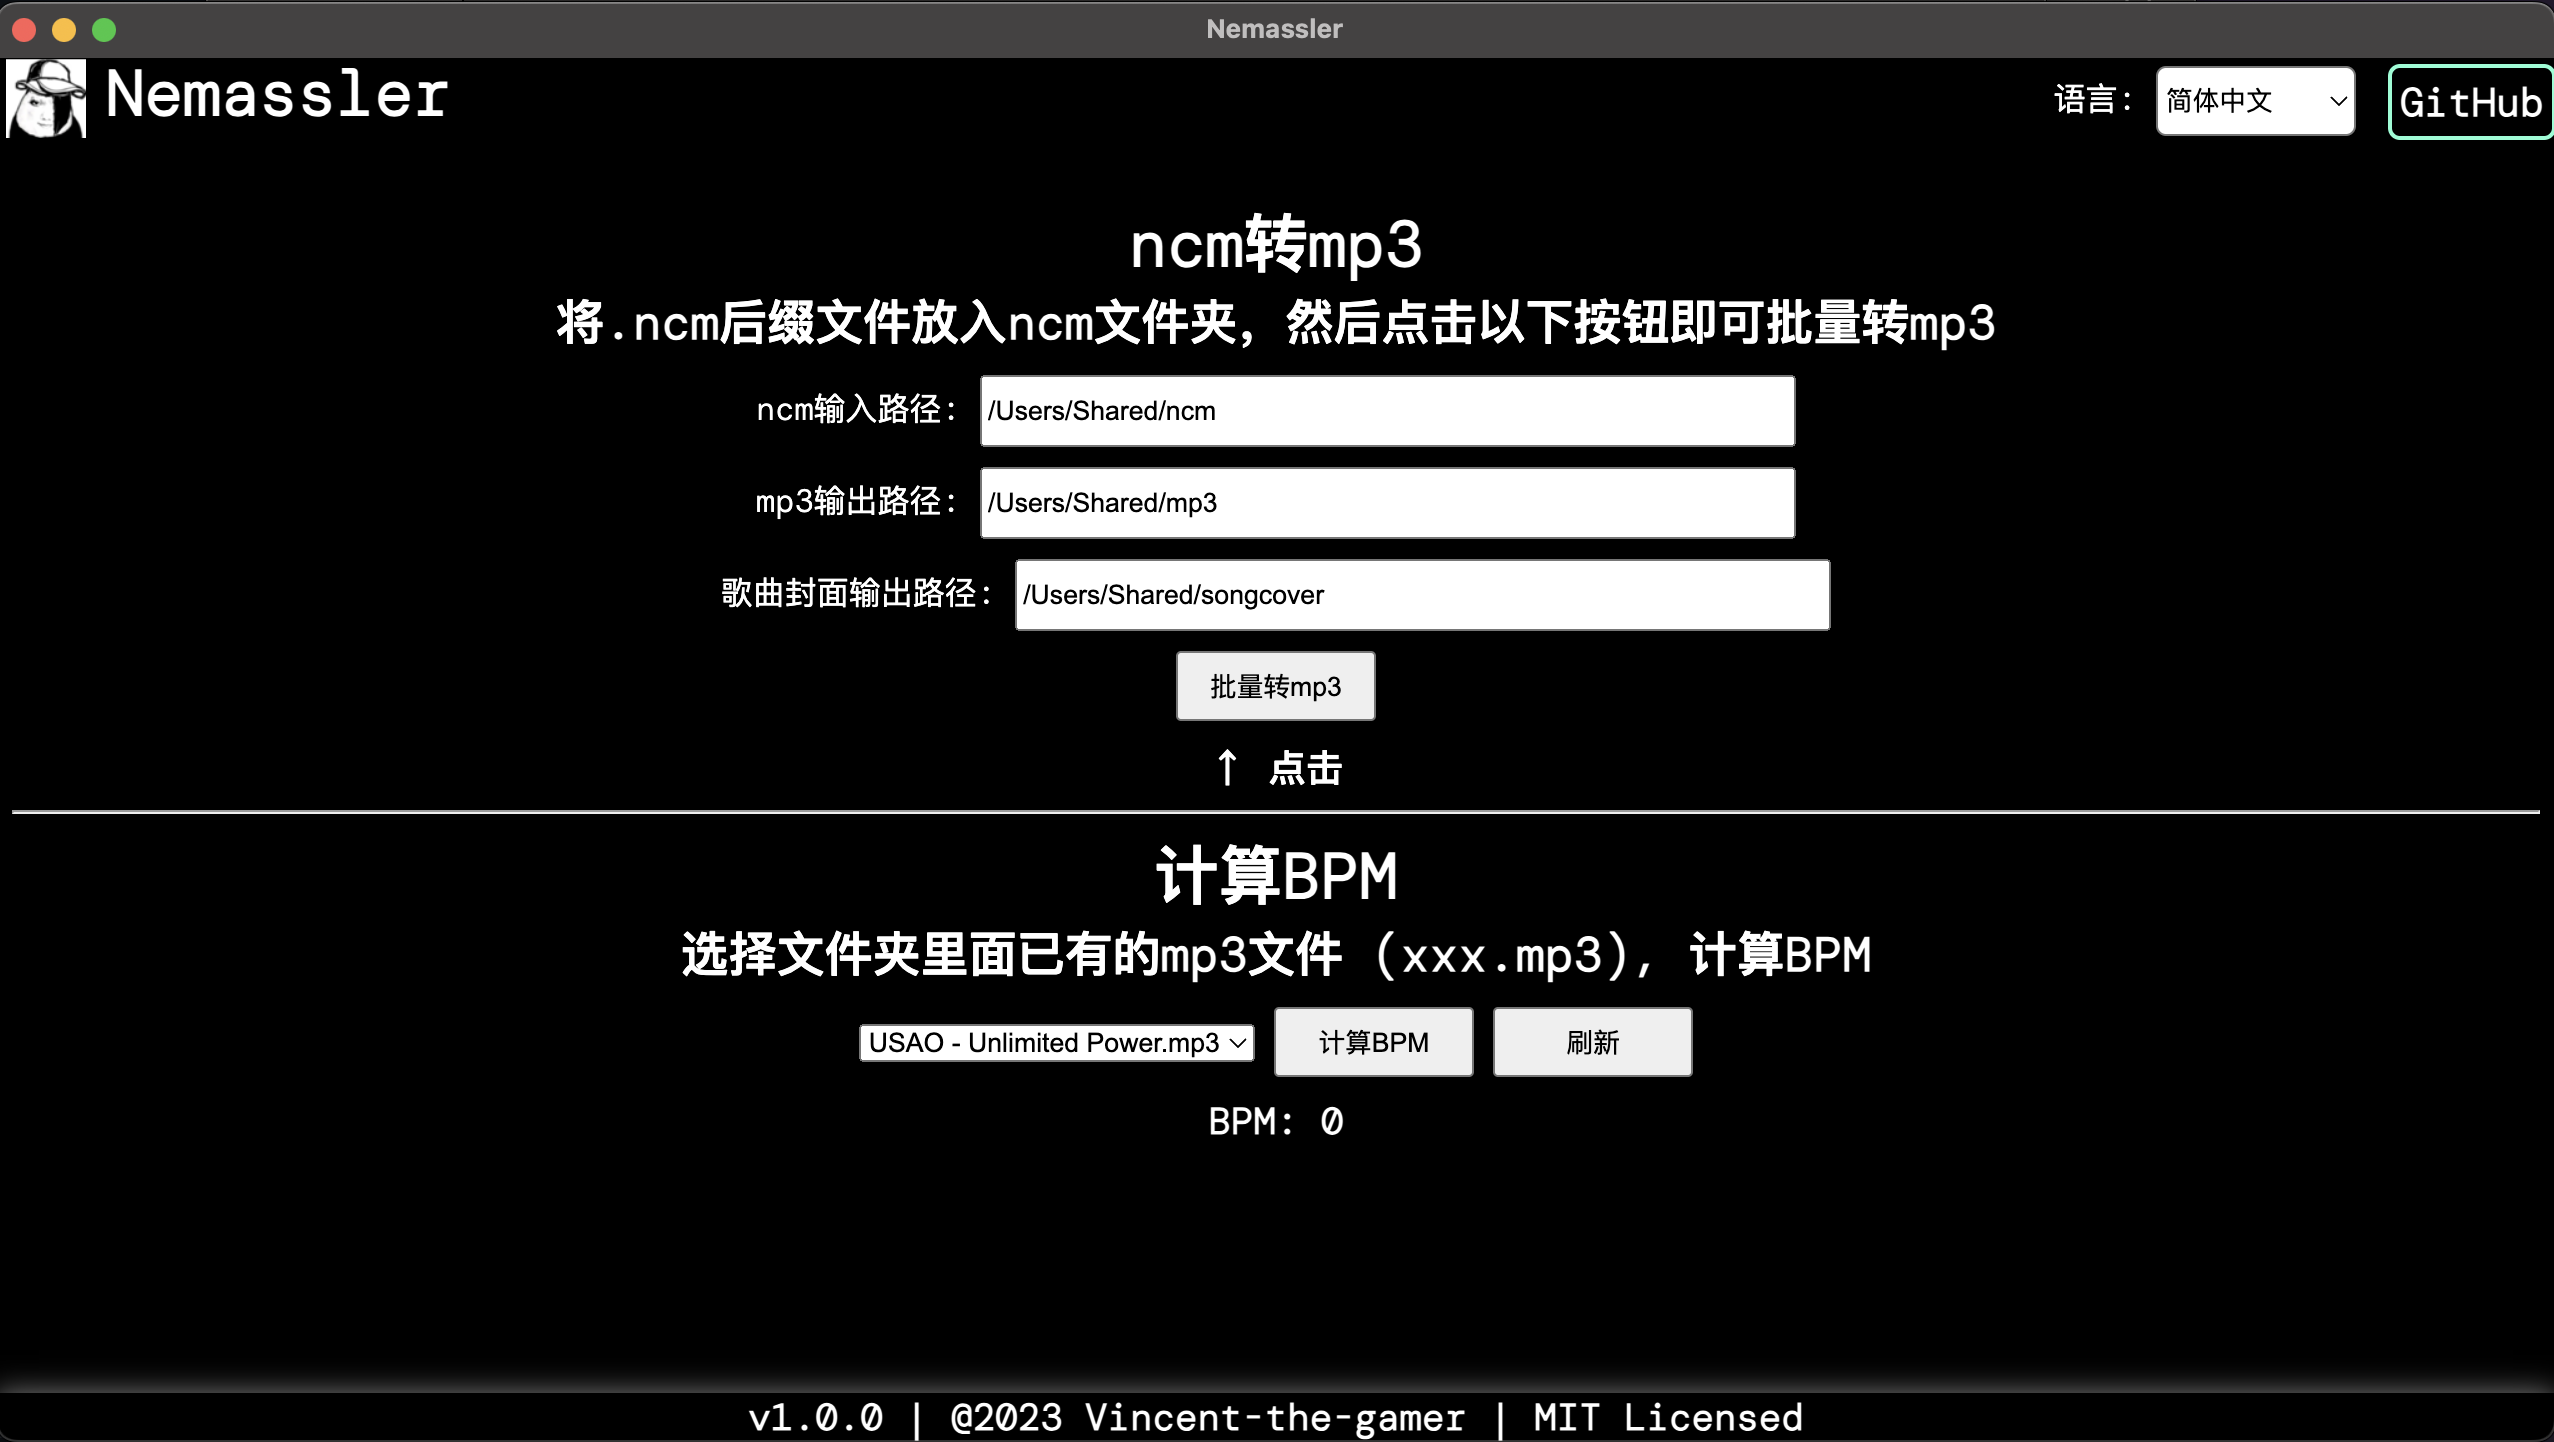
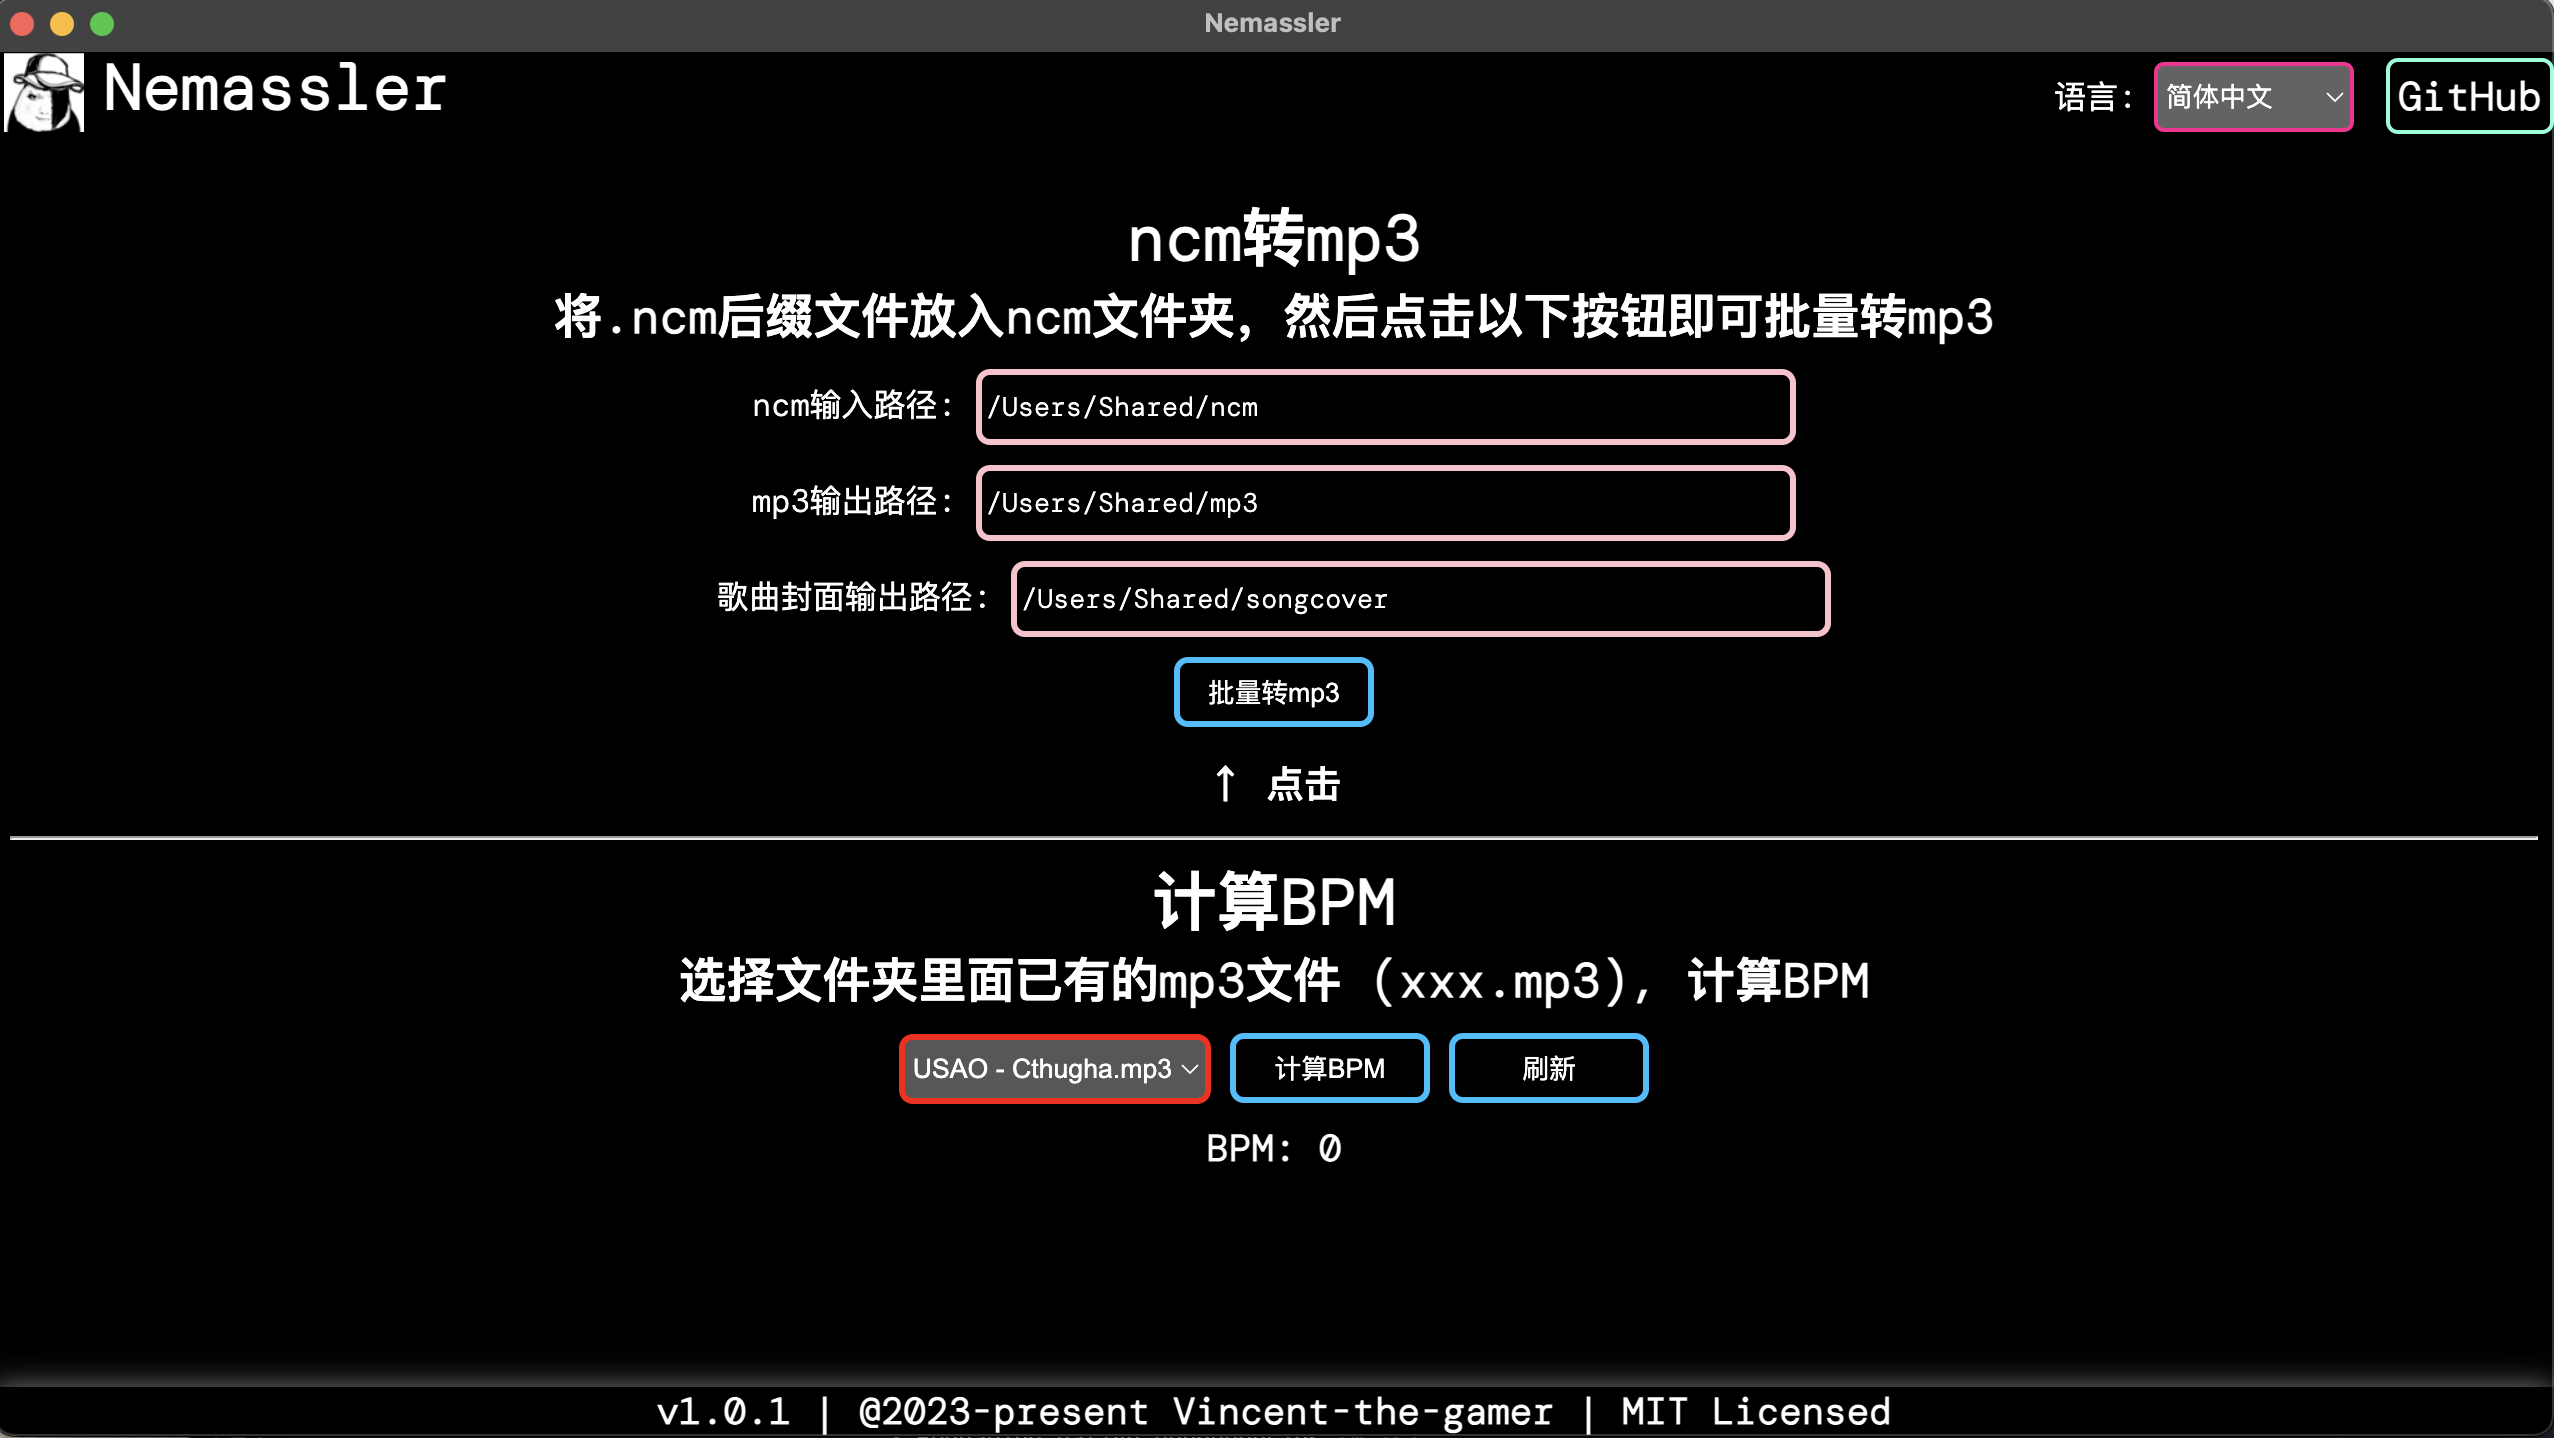
Release v1.0.1

Changed region(s): [[0.0309, 0.153, 1.0, 0.8261], [0.0, 0.0, 1.0, 0.1224], [0.0, 0.9485, 1.0, 1.0]]

diff --git a/forge.config.js b/forge.config.js
@@ -3,7 +3,8 @@ module.exports = {
         name: 'Nemassler',
         executableName: 'Nemassler',
         icon: "./buildIcon",
-        extraResource: ["./public"]
+        extraResource: ["./frontend/dist"]
+        
     },
     makers: [
         {
@@ -16,7 +17,7 @@ module.exports = {
             name: "@electron-forge/maker-zip",
             platforms: [
                 "darwin"
-            ]
+            ],
         },
         {
             name: "@electron-forge/maker-deb",

diff --git a/frontend/src/lib/Main.svelte b/frontend/src/lib/Main.svelte
@@ -64,7 +64,7 @@
         <h3>{ msgEn }</h3>
         <hr>
         <h1>Calculate BPM</h1>
-        <h2>Choose existing mp3 file (xxx.mp3) in public/mp3 folder to calculate BPM</h2>
+        <h2>Choose existing mp3 file (xxx.mp3) in your custom mp3 folder to calculate BPM</h2>
         <div class="center">
         {#if files.length > 0}
             <select class="select-bpm" bind:value={ mp3FileName }>

diff --git a/README.md b/README.md
@@ -3,7 +3,12 @@
 </p>
 <h1 align="center">Nemassler</h1>
 
-Powered By [Alpine.js](https://alpinejs.dev/)
+<p align="center">
+  <span style="font-size: 20px;">Powered By</span>
+  <a href="https://www.svelte.cn/" target="_blank">
+    <img src="./.github/svelte.png"/>
+  </a>
+</p>
 
 中文文档: [README_ZH.md](./README_ZH.md)
 
@@ -17,6 +22,13 @@ This tool pack has 2 modules now:
 Download application from Release: 
 
 [https://github.com/Vincent-the-gamer/Nemassler/releases](https://github.com/Vincent-the-gamer/Nemassler/releases)
+
+Can't open in macOS?
+* Open Terminal
+* Input `xattr -d com.apple.quarantine `
+* Drag the application and drop in Terminal, the directory will be automatically written.
+* Press enter(aka return) button!!!
+* Re-open the application.
 
 ### Get Started
 
@@ -33,8 +45,8 @@ mp3 files and song cover will be generated in `your mp3 output folder`.
 
 #### Default Folders
 * Windows: 
-    * ncm: C:\\Users\\public\\ncm
-    * mp3: C:\\Users\\public\\mp3
+    * ncm: C:\\Users\\Public\\ncm
+    * mp3: C:\\Users\\Public\\mp3
     * songcover: C:\\Users\\public\\songcover
 * macOS
     * ncm: /Users/Shared/ncm
@@ -48,7 +60,13 @@ choose your generated `.mp3` audios, or import your own `.mp3` audios into `your
 ~~~shell
 git clone https://github.com/Vincent-the-gamer/Nemassler.git
 
+# first: build frontend
+cd frontend
 npm install
+npm run build
 
+# then: package backend
+cd ../
+npm install
 npm run package
 ~~~

diff --git a/README_ZH.md b/README_ZH.md
@@ -3,9 +3,12 @@
 </p>
 <h1 align="center">Nemassler</h1>
 
-Node.js版本：18.16.0
-
-本项目前端使用[Alpine.js](https://alpinejs.dev/)开发
+<p align="center">
+  <span style="font-size: 20px;">抛瓦来自</span>
+  <a href="https://www.svelte.cn/" target="_blank">
+    <img src="./.github/svelte.png"/>
+  </a>
+</p>
 
 English Version: [README.md](./README.md)
 
@@ -19,6 +22,13 @@ English Version: [README.md](./README.md)
 下载构建好的程序: 
 
 [https://github.com/Vincent-the-gamer/Nemassler/releases](https://github.com/Vincent-the-gamer/Nemassler/releases)
+
+macOS提示已损坏，你应该把它扔到废纸篓?
+* 打开终端
+* 输入 `xattr -d com.apple.quarantine `
+* 把软件图标拖进终端，自动填入路径
+* 按下回车
+* 重新打开软件即可
 
 ### 开始使用
 
@@ -46,3 +56,18 @@ English Version: [README.md](./README.md)
 
 #### 计算BPM（每分钟的节拍数）
 选择生成的mp3，或者自己手动导入mp3到`你的mp3输出路径`都行，这样就可以在页面下拉框找到你的歌曲，然后计算bpm。
+
+## 从源代码构建
+~~~shell
+git clone https://github.com/Vincent-the-gamer/Nemassler.git
+
+# 请先构建前端
+cd frontend
+npm install
+npm run build
+
+# 然后打包后端
+cd ../
+npm install
+npm run package
+~~~
